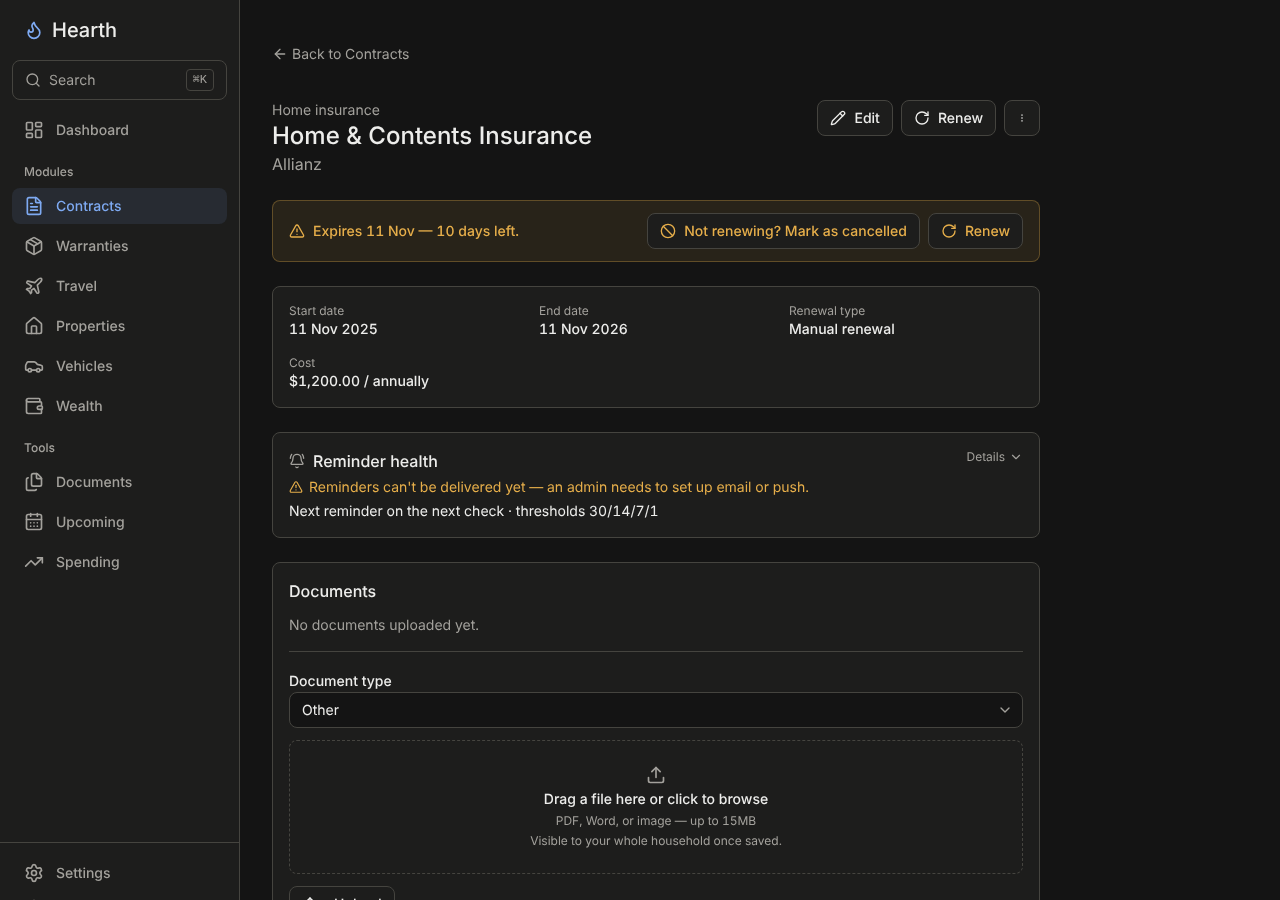
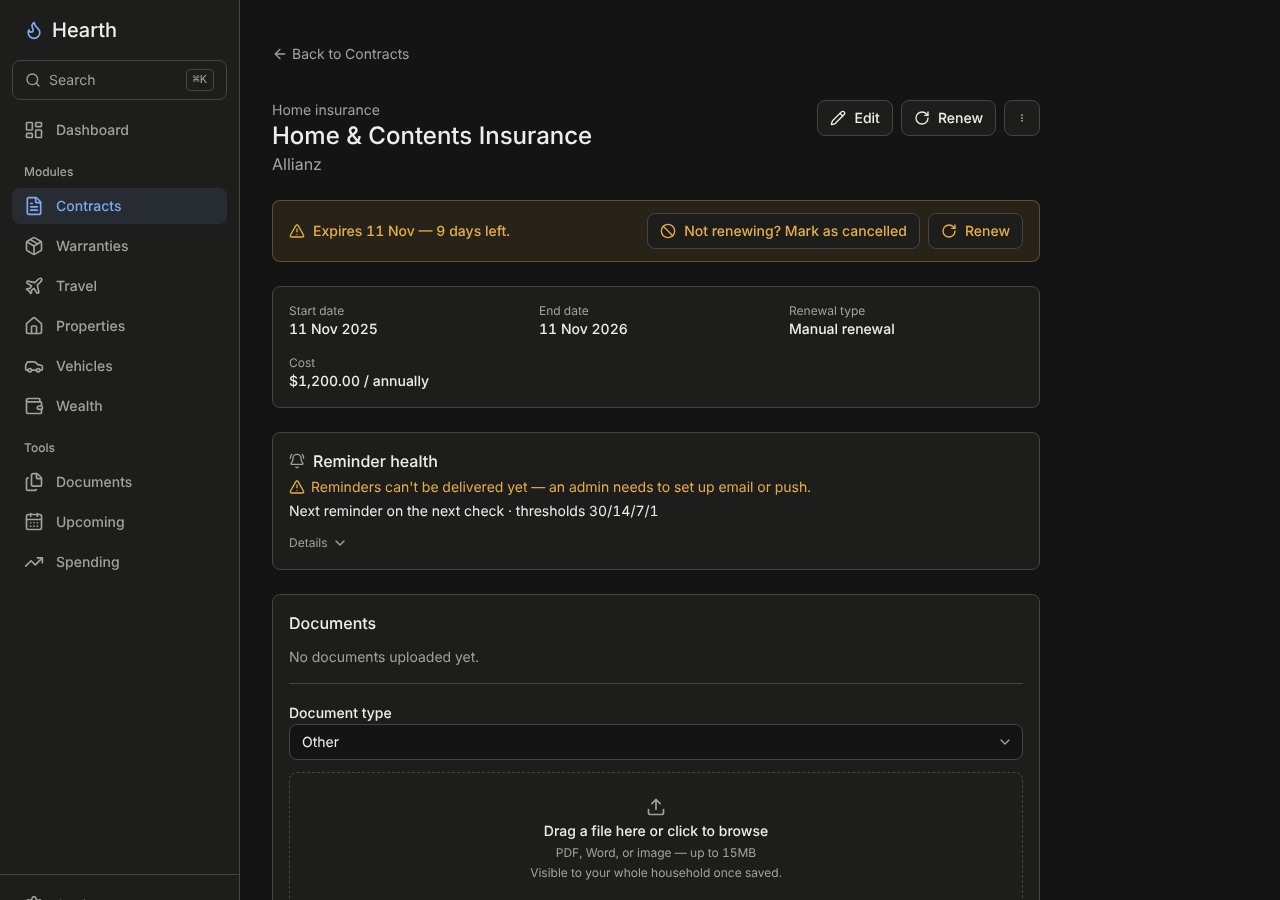
Reminder card: tell apart no thresholds, nothing scheduled and all sent; keep <summary> to the toggle (#360)
No Reminder thresholds is a warning, a date with no Reminder entry says
nothing is scheduled, and 'all sent' only shows once one has gone out.
The heading and lines move out of <summary>, which may only hold
phrasing content; 'Details' alone toggles the read-out.

Claude-Session: https://claude.ai/code/session_011ttcksqps9mXSo77U3gdr6

diff --git a/src/components/ReminderHealthCard.tsx b/src/components/ReminderHealthCard.tsx
@@ -109,39 +109,39 @@ export function ReminderHealthCard({
 
   return (
     <Card>
-      <details className="group">
-        <summary className="flex cursor-pointer list-none items-start justify-between gap-3 [&::-webkit-details-marker]:hidden">
-          <div className="min-w-0 space-y-1">
-            <h2 className="flex items-center gap-2 font-medium">
-              {anyEnabled ? (
-                <BellRing size={16} className="text-muted" aria-hidden />
-              ) : (
-                <BellOff size={16} className="text-muted" aria-hidden />
-              )}
-              {title}
-            </h2>
-            {!deliveryReady && (
-              <p className="flex items-center gap-1.5 text-sm text-warning">
-                <AlertTriangle size={16} className="shrink-0" aria-hidden />
-                Reminders can&apos;t be delivered yet — an admin needs to set up email or push.
-              </p>
-            )}
-            <ul className="space-y-0.5">
-              {entries.map((entry) => {
-                const { tone, text } = reminderSummary(entry.health, dateFormat);
-                return (
-                  <li key={entry.label ?? "only"} className={cn("text-sm", TONE_TEXT.get(tone))}>
-                    {entry.label && <span className="font-medium">{entry.label}: </span>}
-                    {text}
-                  </li>
-                );
-              })}
-            </ul>
-          </div>
-          <span className="flex shrink-0 items-center gap-1 text-xs text-muted">
-            Details
-            <ChevronDown size={16} className="transition-transform group-open:rotate-180" aria-hidden />
-          </span>
+      {/* #516 review — the heading and lines sit outside <summary>, which
+          may only hold phrasing content; "Details" alone is the toggle. */}
+      <div className="min-w-0 space-y-1">
+        <h2 className="flex items-center gap-2 font-medium">
+          {anyEnabled ? (
+            <BellRing size={16} className="text-muted" aria-hidden />
+          ) : (
+            <BellOff size={16} className="text-muted" aria-hidden />
+          )}
+          {title}
+        </h2>
+        {!deliveryReady && (
+          <p className="flex items-center gap-1.5 text-sm text-warning">
+            <AlertTriangle size={16} className="shrink-0" aria-hidden />
+            Reminders can&apos;t be delivered yet — an admin needs to set up email or push.
+          </p>
+        )}
+        <ul className="space-y-0.5">
+          {entries.map((entry) => {
+            const { tone, text } = reminderSummary(entry.health, dateFormat);
+            return (
+              <li key={entry.label ?? "only"} className={cn("text-sm", TONE_TEXT.get(tone))}>
+                {entry.label && <span className="font-medium">{entry.label}: </span>}
+                {text}
+              </li>
+            );
+          })}
+        </ul>
+      </div>
+      <details className="group mt-2">
+        <summary className="inline-flex cursor-pointer list-none items-center gap-1 text-xs text-muted hover:text-foreground [&::-webkit-details-marker]:hidden">
+          Details
+          <ChevronDown size={16} className="transition-transform group-open:rotate-180" aria-hidden />
         </summary>
 
         <div className="mt-4 space-y-4 border-t border-border pt-4">

diff --git a/src/lib/notifications/reminderSummary.ts b/src/lib/notifications/reminderSummary.ts
@@ -31,14 +31,22 @@ export function reminderSummary(
     const error = health.lastFailure.error ? ` — ${health.lastFailure.error}` : "";
     return { tone: "danger", text: `The last Reminder failed via ${channelLabel(health.lastFailure.channel)}${error}.` };
   }
-  if (!health.enabled) return { tone: "neutral", text: "No Reminders left to send." };
+  // #516 review — these three aren't "all sent", so each says what it is.
+  if (health.thresholds.length === 0) {
+    return { tone: "warning", text: "No Reminder thresholds are set, so no Reminders will be sent." };
+  }
+  // No Reminder entry: the date has passed, or (an auto-renewing Contract
+  // with no notice period) there is nothing to be reminded of.
+  if (!health.enabled) return { tone: "neutral", text: "No Reminder is scheduled for this date." };
 
   const when =
     health.nextReminder?.kind === "next-check"
       ? "Next reminder on the next check"
       : health.nextReminder
         ? `Next reminder ${formatDate(health.nextReminder.date, dateFormat)}`
-        : "No more Reminders for this date";
+        : health.lastSent
+          ? "All Reminders for this date have been sent"
+          : "No more Reminders for this date";
   const by = health.deliveryReady && health.nextReminder ? ` by ${channelSummary(health.channels).toLowerCase()}` : "";
   const thresholds = [...health.thresholds].sort((a, b) => b - a).join("/");
   return { tone: "neutral", text: `${when}${by} · thresholds ${thresholds}` };

diff --git a/tests/unit/reminder-presets.test.ts b/tests/unit/reminder-presets.test.ts
@@ -86,8 +86,28 @@ describe("reminderSummary", () => {
     ).toEqual({ tone: "danger", text: "The last Reminder failed via email — SMTP refused." });
   });
 
-  it("says when nothing is left to send", () => {
-    expect(reminderSummary({ ...base, enabled: false, nextReminder: null }).text).toBe("No Reminders left to send.");
+  it("tells apart no thresholds, no scheduled Reminder and all sent (#516 review)", () => {
+    // A future date with no thresholds has no coverage: a warning, not "all done".
+    expect(reminderSummary({ ...base, thresholds: [], enabled: false, nextReminder: null })).toEqual({
+      tone: "warning",
+      text: "No Reminder thresholds are set, so no Reminders will be sent.",
+    });
+    // No Reminder entry (the date has passed, or nothing to remind of).
+    expect(reminderSummary({ ...base, enabled: false, nextReminder: null }).text).toBe(
+      "No Reminder is scheduled for this date.",
+    );
+    // Every threshold for this date has gone out.
+    expect(
+      reminderSummary({
+        ...base,
+        nextReminder: null,
+        lastSent: { channel: "EMAIL", thresholdDays: 1, sentAt: new Date() },
+      }).text,
+    ).toBe("All Reminders for this date have been sent · thresholds 30/14/7/1");
+    // Thresholds passed with nothing sent (e.g. no channel at the time).
+    expect(reminderSummary({ ...base, nextReminder: null }).text).toBe(
+      "No more Reminders for this date · thresholds 30/14/7/1",
+    );
   });
 });
 

diff --git a/e2e/specs/21-vehicles-module.spec.ts b/e2e/specs/21-vehicles-module.spec.ts
@@ -169,8 +169,8 @@ test.describe.serial("Vehicles module", () => {
 
     await expect(page.getByText("Next service due")).toBeVisible();
     // #360 — one Reminder card lists each of the Vehicle's dates.
-    const reminders = page.locator("details", { has: page.getByRole("heading", { name: "Reminder health" }) });
-    await expect(reminders.locator("li", { hasText: /^Service: / })).toBeVisible();
+    await expect(page.getByRole("heading", { name: "Reminder health" })).toHaveCount(1);
+    await expect(page.locator("main li", { hasText: /^Service: / })).toBeVisible();
 
     await page.goto("/vehicles");
     const card = page.locator("a", { hasText: "Test Vehicle" });
